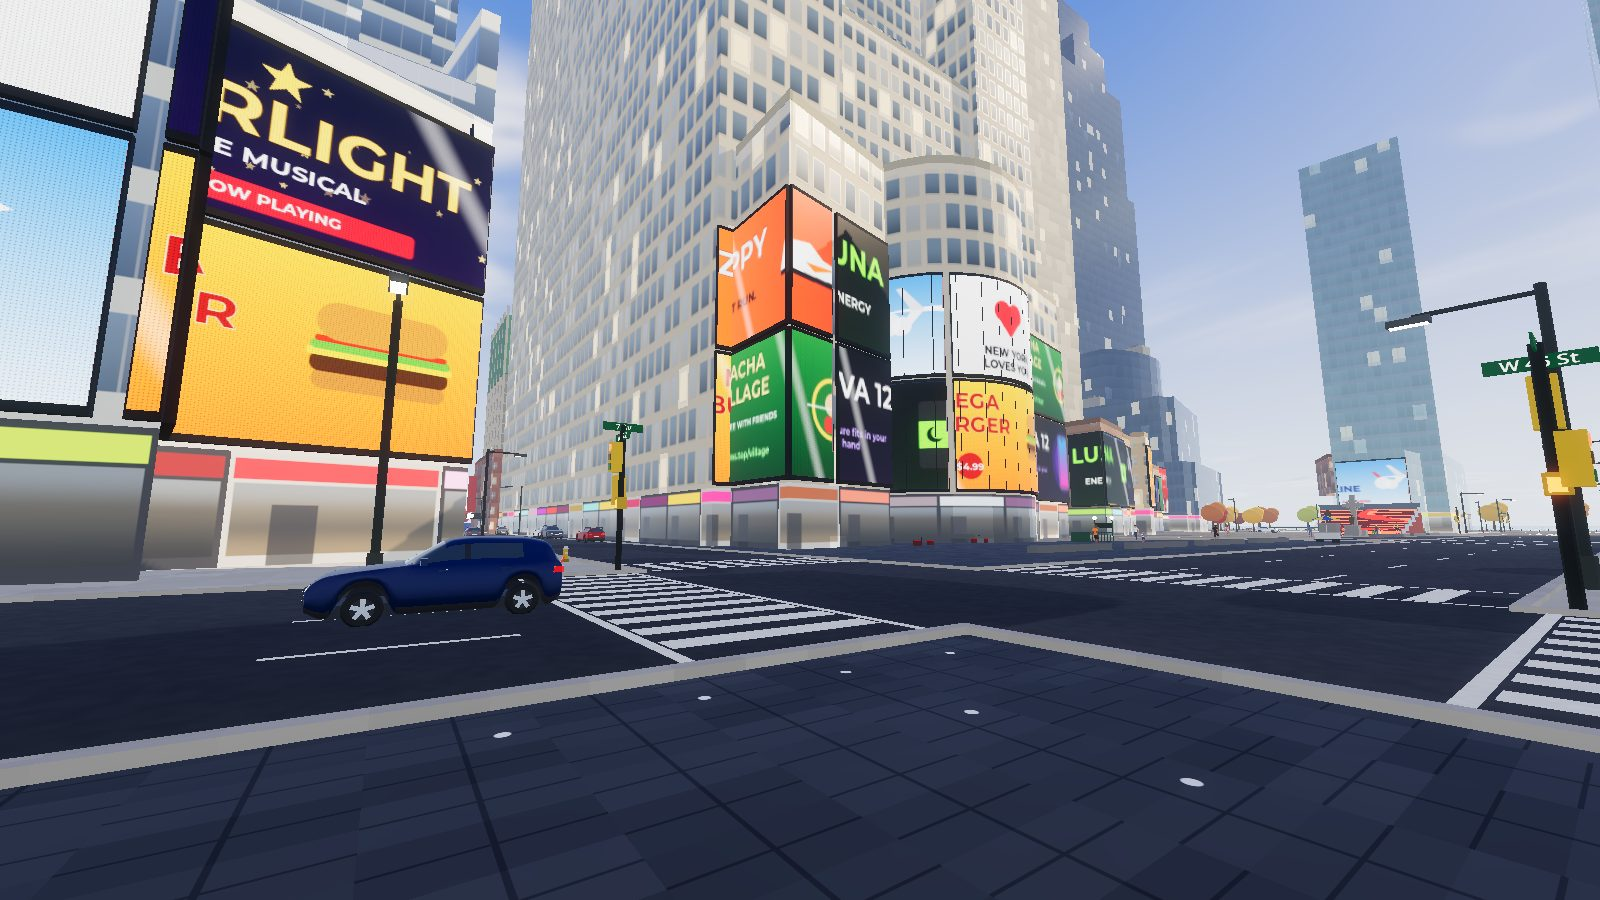
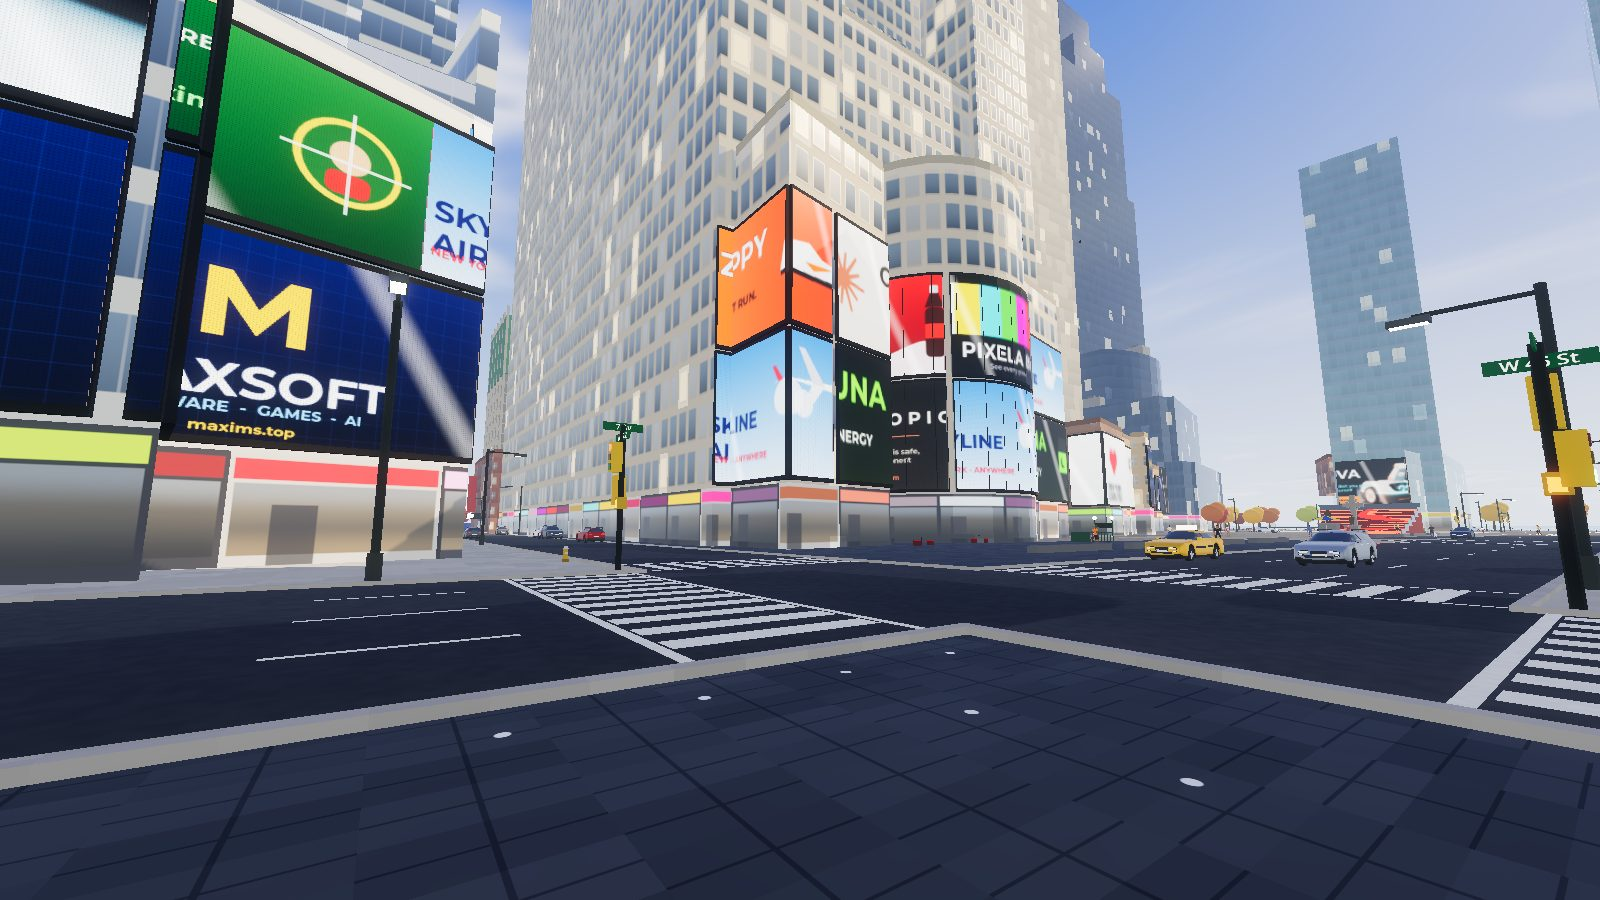
Times Square ads: NOVA robot, MaxSoft, Claude and Anthropic
The featured ads replace four made-up ones and take about every other
screen, and they rotate round One Times Square. NOVA uses its own
Blender renders from the agi-robot project. The tickers carry them too.
Photos are cropped by hand (TextureRect expand mode before size, or the
picture spills into the next atlas cell); long titles no longer wrap
on the tall screens.

diff --git a/Readme.md b/Readme.md
@@ -72,7 +72,7 @@ Two more estates, picked with the buttons on the start screen (the choice is rem
 ### Times Square, New York
 The default place for new players (`?loc=nyc` / `-- --loc=nyc`), built by `district_nyc.gd` on top of `nyc_builder.gd`. It covers the blocks from West 41st to West 48th Street between 6th and 8th Avenue, about 300 m round the bowtie where Broadway crosses 7th Avenue; the street grid is turned 29 degrees so the avenues run straight north-south in the game. The four boundary streets run along a waterfront promenade of hexagonal pavers with a black iron railing, benches, old lamp posts and trees, on a granite sea wall; beyond it the open sea with ferries, a tug and a yacht circling the island (`ocean.gdshader`).
 - **Buildings from OpenStreetMap.** `tools/nyc/osm_to_json.py` turns an Overpass dump into `assets/nyc/times_square.json`: 427 footprints and building parts with their heights and setbacks, plus street trees and the street lines. Each one is extruded at load time with a procedural facade shader (`facade.gdshader`: brick and limestone with punched windows, glass curtain walls, ribbon windows, concrete grids, shop fronts with lit sign bands at street level), named landmarks get the look they have on Street View, older roofs carry wooden water tanks.
-- **The square.** LED screens on every facade that looks onto the square, wrapped round the corners and stacked in tiers (`screen.gdshader`); the ads are painted once at load time into an atlas (`nyc_ads.gd`, every brand made up). One Times Square is covered in screens almost to the top, with the news ticker round it and the ball on its mast over the lit year. The dark plaza pavers with steel discs, granite benches, café tables, hot dog carts, the TKTS booth under 24 glowing red steps you can climb, George M. Cohan and Father Duffy with his Celtic cross, the NYPD station in blue neon and the recruiting booth with its neon flag.
+- **The square.** LED screens on every facade that looks onto the square, wrapped round the corners and stacked in tiers (`screen.gdshader`); the ads are painted once at load time into an atlas (`nyc_ads.gd`): about every other screen shows NOVA (the AGI robot you print yourself, with its Blender renders), MaxSoft, Claude or Anthropic, the rest made-up brands. One Times Square is covered in screens almost to the top, with the news ticker round it and the ball on its mast over the lit year. The dark plaza pavers with steel discs, granite benches, café tables, hot dog carts, the TKTS booth under 24 glowing red steps you can climb, George M. Cohan and Father Duffy with his Celtic cross, the NYPD station in blue neon and the recruiting booth with its neon flag.
 - **The streets.** Real roadway widths and one-way directions: 7th Avenue south, 8th and 6th north with green bike lanes, even streets east, odd ones west, 42nd both ways with red bus lanes. Granite kerbs, high-visibility crosswalks, traffic lights on every corner with green street-name signs, lamps, hydrants, trash cans, mailboxes, newsstands, Con Ed steam stacks venting, sidewalk sheds, subway entrances with green globes, Broadway theatres with marquees and vertical blade signs, and The Torch going up on 8th Avenue under a tower crane. Yellow cabs (`car_taxi` in `build_vehicles.py`) are half the traffic; the cars follow the signal cycle (`traffic.gd`, the same wall clock on every client) and keep clear of each other where lanes cross.
 
 Map data © OpenStreetMap contributors (ODbL).
